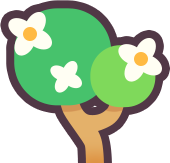
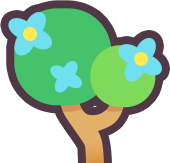
修改了蜜蜂时长+图层

Changed region(s): [[0.0294, 0.0613, 0.3235, 0.3681], [0.6765, 0.2147, 0.9706, 0.5215], [0.2941, 0.3681, 0.5, 0.5828]]

diff --git a/style.css b/style.css
@@ -75,10 +75,12 @@ body::before {
 }
 
 .fx-overlay {
-  position: absolute;
+  /* 移到 body 直接子级 + position: fixed，脱离 .app-shell 的 stacking context，
+     z-index 高于 .bee-counter(30)，让飞蜜蜂动画始终盖在剩余蜜蜂 HUD 之上。 */
+  position: fixed;
   inset: 0;
   pointer-events: none;
-  z-index: 30;
+  z-index: 40;
   overflow: visible;
 }
 

diff --git a/index.html b/index.html
@@ -75,7 +75,6 @@
           </section>
 
         </div>
-        <div id="fx-overlay" class="fx-overlay" aria-hidden="true"></div>
         <div id="combo-overlay" class="combo-overlay" aria-hidden="true">
           <div id="combo-popup" class="combo-popup" hidden>
             <span class="combo-popup__label">Combo x</span><span id="combo-popup-count" class="combo-popup__count">1</span>
@@ -83,6 +82,8 @@
         </div>
       </div>
     </main>
+
+    <div id="fx-overlay" class="fx-overlay" aria-hidden="true"></div>
 
     <aside class="bee-counter">
       <div class="bee-counter__frame">

diff --git a/app.js b/app.js
@@ -2087,7 +2087,7 @@ function spawnBeeRewardFlight(tileId) {
     control: controlPoint,
     end: endPoint,
     startTime: getNow(),
-    duration: collectFeedbackConfig.flyDuration,
+    duration: 1000,
     rotationStart: -18 + Math.random() * 14,
     rotationDelta: 22 + Math.random() * 26,
     type: "bee_reward",